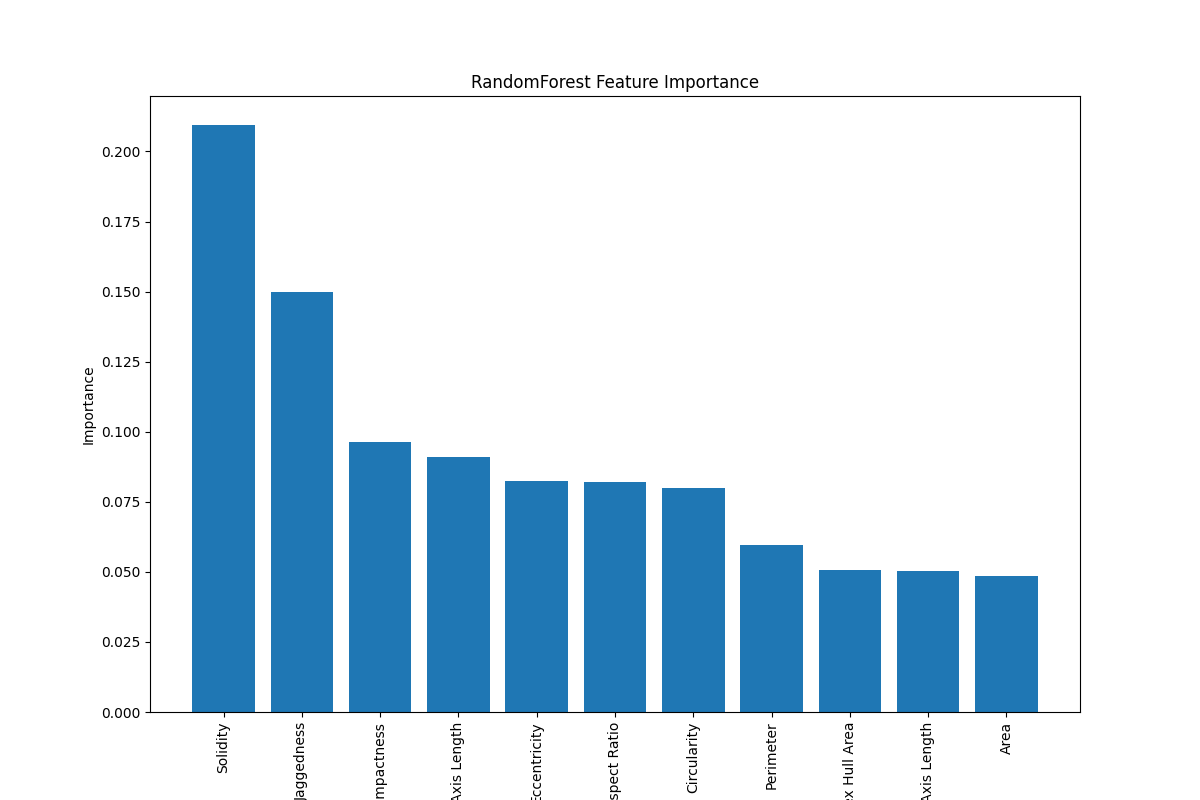
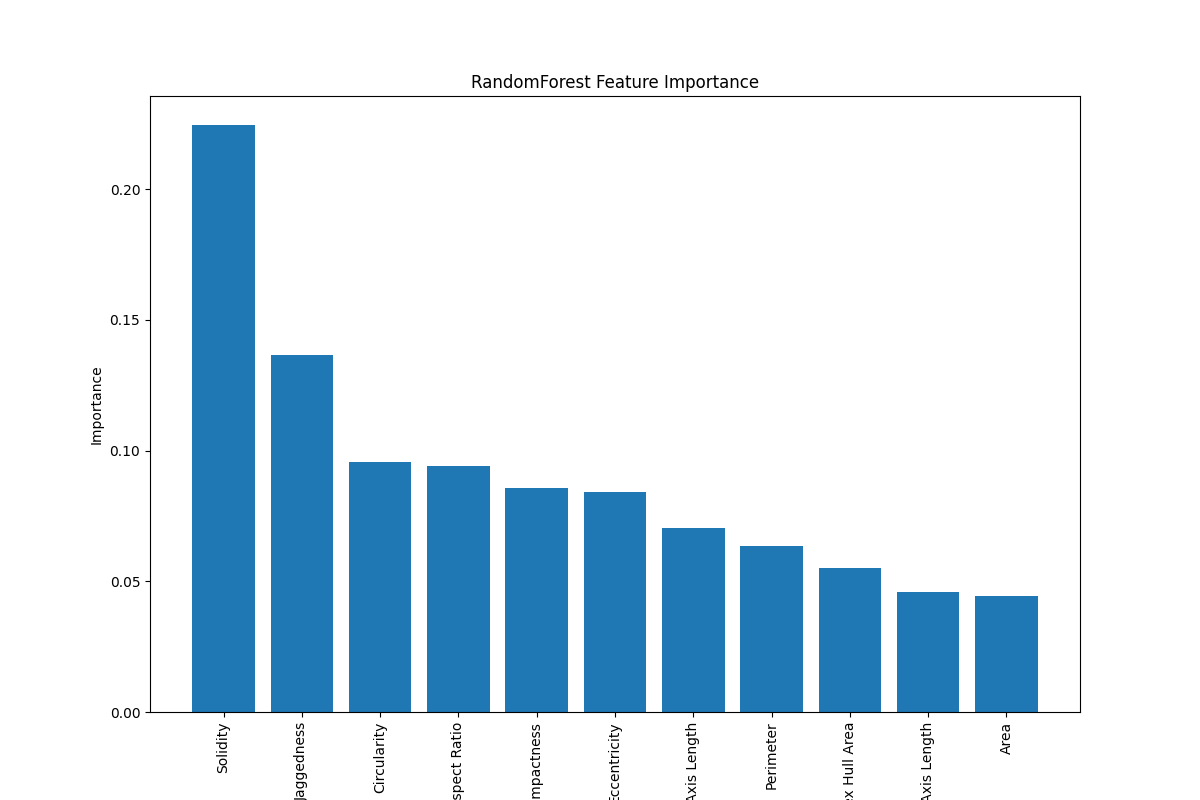
done local interpertation 	new file:   BrEaST-000001_0.png_features_predictions.png 	new file:   BrEaST-000002_0.png_features_predictions.png 	new file:   BrEaST-000003_0.png_features_predictions.png 	new file:   BrEaST-000004_0.png_features_predictions.png 	new file:   BrEaST-000010_0.png_features_

diff --git a/mainstats.py b/mainstats.py
@@ -1,0 +1,387 @@
+#imports
+import os
+import cv2
+import numpy as np
+import json
+import pandas as pd
+from sklearn.model_selection import train_test_split
+from xgboost import XGBClassifier
+from sklearn.ensemble import RandomForestClassifier
+from sklearn.metrics import accuracy_score, classification_report, roc_curve, auc, confusion_matrix, roc_auc_score
+import matplotlib.pyplot as plt
+import seaborn as sns
+import shap
+from sklearn.preprocessing import StandardScaler
+from treeinterpreter import treeinterpreter as ti
+
+
+# Define paths
+masks_path = 'masks'
+meta_path = 'meta'
+
+def extract_features(mask):
+    features = {}
+    
+    # Area
+    area = cv2.countNonZero(mask)
+    features['Area'] = area
+    
+    # Perimeter
+    contours, _ = cv2.findContours(mask, cv2.RETR_EXTERNAL, cv2.CHAIN_APPROX_SIMPLE)
+    perimeter = cv2.arcLength(contours[0], True)
+    features['Perimeter'] = perimeter
+    
+    # Major and Minor Axis Lengths
+    if len(contours[0]) >= 5:
+        ellipse = cv2.fitEllipse(contours[0])
+        (center, axes, orientation) = ellipse
+        major_axis_length = max(axes)
+        minor_axis_length = min(axes)
+    else:
+        # no 5 points to fit an eclipse
+        return None
+    
+    #aviod divide by zeros error and remove instance from data
+    if minor_axis_length == 0:
+        return None
+    
+    features['Major Axis Length'] = major_axis_length
+    features['Minor Axis Length'] = minor_axis_length
+    
+    # Aspect Ratio
+    aspect_ratio = major_axis_length / minor_axis_length
+    features['Aspect Ratio'] = aspect_ratio
+    
+
+    # Circularity
+    if perimeter != 0:
+        circularity = 4 * np.pi * (area / (perimeter ** 2))
+    else:
+        #skip instance
+        return None
+    features['Circularity'] = circularity
+    
+    # Compactness
+    if area != 0:
+        compactness = (perimeter ** 2) / (4 * np.pi * area)
+    else:
+        #skip image to avoid divide by zero
+        return None
+    features['Compactness'] = compactness
+    
+    # Eccentricity
+    eccentricity = major_axis_length / minor_axis_length
+    features['Eccentricity'] = eccentricity
+    
+    # Jaggedness (Boundary Roughness)
+    smoothed_contour = cv2.approxPolyDP(contours[0], epsilon=0.02*perimeter, closed=True)
+    smoothed_perimeter = cv2.arcLength(smoothed_contour, True)
+    if smoothed_perimeter != 0:
+        jaggedness = perimeter / smoothed_perimeter
+    else:
+        #skip image to avoid divide by zero
+        return None
+    features['Jaggedness'] = jaggedness
+    
+    # Convex Hull Area
+    hull = cv2.convexHull(contours[0])
+    hull_area = cv2.contourArea(hull)
+    if hull_area != 0:
+        solidity = area / hull_area
+    else:
+        return None  # Skip this image to avoid divide-by-zero
+    
+    features['Convex Hull Area'] = hull_area
+    features['Solidity'] = solidity
+    
+    return features
+
+def extract_features_from_all_masks(masks_path):
+    features_list = []
+    filenames = []
+    
+    for mask_file in os.listdir(masks_path):
+        if mask_file.endswith('.png'):
+            mask_image = cv2.imread(os.path.join(masks_path, mask_file), cv2.IMREAD_GRAYSCALE)
+            features = extract_features(mask_image)
+            if features is not None:
+                features_list.append(features)
+                filenames.append(mask_file)
+    
+    return features_list, filenames
+
+def load_metadata(meta_path):
+    labels = {}
+    
+    for meta_file in os.listdir(meta_path):
+        if meta_file.endswith('.json'):
+            with open(os.path.join(meta_path, meta_file), 'r') as f:
+                meta_data = json.load(f)
+                labels[meta_file.replace('.json', '.png')] = meta_data.get('Class', 'Unknown')
+    
+    return labels
+
+def create_dataset(features_list, filenames, labels):
+    dataset = []
+    for features, filename in zip(features_list, filenames):
+        label = labels.get(filename, None)
+        if label is not None:
+            features['Label'] = label
+            dataset.append(features)
+    return dataset
+
+# Extract features from all masks
+features_list, filenames = extract_features_from_all_masks(masks_path)
+
+# Load metadata
+labels = load_metadata(meta_path)
+
+# Debug print statements to verify mappings
+print("Features List Length:", len(features_list))
+print("Filenames Length:", len(filenames))
+# Create dataset
+dataset = create_dataset(features_list, filenames, labels)
+
+# Debug print statements to verify the final dataset
+print("Dataset Length:", len(dataset))
+print("\n")
+print("Sample from Dataset:", dataset[:5])  # Print first 5 entries
+
+# Convert to DataFrame for better visualization and manipulation
+df = pd.DataFrame(dataset)
+print("\n")
+print(df.head())
+
+# Dataset statistics
+class_counts = df['Label'].value_counts()
+class_percentages = df['Label'].value_counts(normalize=True) * 100
+class_balance = pd.DataFrame({'Count': class_counts, 'Percentage': class_percentages})
+print("Class balance:\n", class_balance)
+
+plt.figure(figsize=(12, 8))
+sns.countplot(x='Label', data=df)
+plt.title('Class Balance')
+plt.xlabel('Class')
+plt.ylabel('Count')
+for p in plt.gca().patches:
+    plt.gca().annotate(f'{p.get_height()} ({p.get_height()/len(df)*100:.2f}%)', 
+                       (p.get_x() + p.get_width() / 2., p.get_height()), 
+                       ha='center', va='baseline', fontsize=12, color='black', xytext=(0, 5), 
+                       textcoords='offset points')
+plt.savefig('class_balance.png')
+plt.close()
+
+# Encode labels as numerical values
+label_mapping = {'benign': 0, 'malignant': 1}
+df['Label'] = df['Label'].map(label_mapping)
+
+# Prepare data for training
+if 'Label' in df.columns:
+    X = df.drop('Label', axis=1)
+    y = df['Label']
+
+    X_train, X_test, y_train, y_test = train_test_split(X, y, test_size=0.2, random_state=42)
+
+    # Train XGBoost model
+    xgb_model = XGBClassifier()
+    xgb_model.fit(X_train, y_train)
+
+    # Evaluate XGBoost model
+    y_pred_xgb = xgb_model.predict(X_test)
+    print("XGBoost Accuracy:", accuracy_score(y_test, y_pred_xgb))
+    print("XGBoost Classification Report:\n", classification_report(y_test, y_pred_xgb))
+    print("XGBoost AUC Score:", roc_auc_score(y_test, y_pred_xgb))
+
+    # Confusion Matrix for XGBoost
+    cm_xgb = confusion_matrix(y_test, y_pred_xgb)
+    plt.figure(figsize=(6, 6))
+    sns.heatmap(cm_xgb, annot=True, fmt='d', cmap='Blues', xticklabels=['benign', 'malignant'], yticklabels=['benign', 'malignant'])
+    plt.title('XGBoost Confusion Matrix')
+    plt.xlabel('Predicted')
+    plt.ylabel('Actual')
+    plt.savefig('xgb_confusion_matrix.png')
+    plt.close()
+
+    # Feature importance from XGBoost
+    importances_xgb = xgb_model.feature_importances_
+    indices_xgb = np.argsort(importances_xgb)[::-1]
+
+    # Plot feature importance for XGBoost
+    plt.figure(figsize=(12, 8))
+    plt.title("XGBoost Feature Importance")
+    plt.bar(range(X.shape[1]), importances_xgb[indices_xgb], align="center")
+    plt.xticks(range(X.shape[1]), [X.columns[i] for i in indices_xgb], rotation=90)
+    plt.xlabel("Feature")
+    plt.ylabel("Importance")
+    plt.savefig('xgboost_feature_importance.png')
+    plt.close()
+
+    # ROC Curve for XGBoost
+    fpr_xgb, tpr_xgb, _ = roc_curve(y_test, y_pred_xgb)
+    plt.figure()
+    plt.plot(fpr_xgb, tpr_xgb, color='blue', lw=2, label='XGBoost ROC curve (area = %0.2f)' % auc(fpr_xgb, tpr_xgb))
+    plt.plot([0, 1], [0, 1], color='navy', lw=2, linestyle='--')
+    plt.xlim([0.0, 1.0])
+    plt.ylim([0.0, 1.05])
+    plt.xlabel('False Positive Rate')
+    plt.ylabel('True Positive Rate')
+    plt.title('XGBoost ROC Curve')
+    plt.legend(loc="lower right")
+    plt.savefig('xgb_roc_curve.png')
+    plt.close()
+
+    # Train RandomForest model
+    rf_model = RandomForestClassifier()
+    rf_model.fit(X_train, y_train)
+
+    # Evaluate RandomForest model
+    y_pred_rf = rf_model.predict(X_test)
+    print("RandomForest Accuracy:", accuracy_score(y_test, y_pred_rf))
+    print("RandomForest Classification Report:\n", classification_report(y_test, y_pred_rf))
+    print("RandomForest AUC Score:", roc_auc_score(y_test, y_pred_rf))
+
+    # Confusion Matrix for RandomForest
+    cm_rf = confusion_matrix(y_test, y_pred_rf)
+    plt.figure(figsize=(6, 6))
+    sns.heatmap(cm_rf, annot=True, fmt='d', cmap='Blues', xticklabels=['benign', 'malignant'], yticklabels=['benign', 'malignant'])
+    plt.title('RandomForest Confusion Matrix')
+    plt.xlabel('Predicted')
+    plt.ylabel('Actual')
+    plt.savefig('rf_confusion_matrix.png')
+    plt.close()
+
+    # ROC Curve for RandomForest
+    fpr_rf, tpr_rf, _ = roc_curve(y_test, y_pred_rf)
+    plt.figure()
+    plt.plot(fpr_rf, tpr_rf, color='green', lw=2, label='RandomForest ROC curve (area = %0.2f)' % auc(fpr_rf, tpr_rf))
+    plt.plot([0, 1], [0, 1], color='navy', lw=2, linestyle='--')
+    plt.xlim([0, 1])
+    plt.ylim([0, 1.05])
+    plt.xlabel('False Positive Rate')
+    plt.ylabel('True Positive Rate')
+    plt.title('RandomForest ROC Curve')
+    plt.legend(loc="lower right")
+    plt.savefig('rf_roc_curve.png')
+    plt.close()
+
+    # Feature importance from RandomForest
+    importances_rf = rf_model.feature_importances_
+    indices_rf = np.argsort(importances_rf)[::-1]
+
+    # Plot feature importance for RandomForest
+    plt.figure(figsize=(12, 8))
+    plt.title("RandomForest Feature Importance")
+    plt.bar(range(X.shape[1]), importances_rf[indices_rf], align="center")
+    plt.xticks(range(X.shape[1]), [X.columns[i] for i in indices_rf], rotation=90)
+    plt.xlabel("Feature")
+    plt.ylabel("Importance")
+    plt.savefig('randomforest_feature_importance.png')
+    plt.close()
+
+    # Correlation heatmap
+    plt.figure(figsize=(12, 8))
+    sns.heatmap(df.corr(), annot=True, fmt='.2f', cmap='coolwarm')
+    plt.title('Correlation Heatmap')
+    plt.savefig('correlation_heatmap.png')
+    plt.close()
+
+    # Identify misclassified & correctly classified masks
+    misclassified_rf = []
+    misclassified_xgb = []
+    correct_classified_rf = []
+    correct_classified_xgb = []
+
+    for idx, (true_label, rf_pred, xgb_pred) in enumerate(zip(y_test, y_pred_rf, y_pred_xgb)):
+        if rf_pred != true_label:
+            misclassified_rf.append(filenames[idx])
+        else:
+            correct_classified_rf.append(filenames[idx])
+
+        if xgb_pred != true_label:
+            misclassified_xgb.append(filenames[idx])
+        else:
+            correct_classified_xgb.append(filenames[idx])
+
+    def extract_features_for_list(filenames, masks_path, scaler=None):
+        features_list = []
+        for filename in filenames:
+            mask_image = cv2.imread(os.path.join(masks_path, filename), cv2.IMREAD_GRAYSCALE)
+            features = extract_features(mask_image)
+            if features is not None:
+                features_list.append(features)
+        features_df = pd.DataFrame(features_list)
+        if scaler:
+            features_df = pd.DataFrame(scaler.transform(features_df), columns=features_df.columns)
+        return features_df
+
+    def plot_image_features_with_predictions_and_contributions(filename, features, xgb_pred, rf_pred, rf_contributions):
+        # Load the image
+        img = cv2.imread(os.path.join(masks_path, filename))
+        
+        # Create a figure
+        plt.figure(figsize=(16, 8))
+        
+        # Plot the image
+        plt.subplot(1, 3, 1)
+        plt.imshow(cv2.cvtColor(img, cv2.COLOR_BGR2RGB))
+        plt.title(f'Original Image - {filename}')
+        plt.axis('off')
+        
+        # Plot the features
+        plt.subplot(1, 3, 2)
+        features.plot(kind='barh', legend=False)
+        plt.title('Normalized Extracted Features')
+        plt.xlabel('Feature Value')
+        
+        # Plot the contributions for each class
+        plt.subplot(1, 3, 3)
+        rf_contrib_summary_class0 = rf_contributions[:, 0]
+        rf_contrib_summary_class1 = rf_contributions[:, 1]
+        
+        pd.Series(rf_contrib_summary_class0, index=features.index).plot(kind='barh', color='blue', alpha=0.6, label='Class 0')
+        pd.Series(rf_contrib_summary_class1, index=features.index).plot(kind='barh', color='red', alpha=0.6, label='Class 1')
+        
+        plt.title('Random Forest Contributions')
+        plt.xlabel('Contribution Value')
+        plt.legend()
+        
+        # Save the figure
+        plt.tight_layout()
+        plt.savefig(f'{filename}_features_predictions.png')
+        plt.close()
+
+        # Print the model predictions
+        print(f"Predictions for {filename}:")
+        print(f"  XGBoost: {'benign' if xgb_pred == 0 else 'malignant'}")
+        print(f"  RandomForest: {'benign' if rf_pred == 0 else 'malignant'}")
+
+    # Prepare the scaler using the training set features
+    all_filenames = correct_classified_rf + misclassified_rf + correct_classified_xgb + misclassified_xgb
+    train_features = extract_features_for_list(all_filenames, masks_path)
+    scaler = StandardScaler().fit(train_features)
+
+    # Analyze 3 correctly classified and 3 misclassified examples for RandomForest and XGBoost
+    def analyze_examples(classified_list, model, model_name):
+        for i in range(min(3, len(classified_list))):
+            filename = classified_list[i]
+            features = extract_features_for_list([filename], masks_path, scaler)
+            xgb_pred = xgb_model.predict(features)
+            rf_pred = rf_model.predict(features)
+            rf_predictions, rf_bias, rf_contributions = ti.predict(rf_model, features)
+
+            plot_image_features_with_predictions_and_contributions(
+                filename,
+                features.iloc[0],
+                xgb_pred[0],
+                rf_pred[0],
+                rf_contributions[0]
+            )
+
+    analyze_examples(correct_classified_rf, rf_model, "RandomForest Correctly Classified")
+    analyze_examples(misclassified_rf, rf_model, "RandomForest Misclassified")
+    analyze_examples(correct_classified_xgb, xgb_model, "XGBoost Correctly Classified")
+    analyze_examples(misclassified_xgb, xgb_model, "XGBoost Misclassified")
+
+else:
+    print("Error: 'Label' column not found in the DataFrame.")
+

diff --git a/maingroupby.py b/maingroupby.py
@@ -117,7 +117,8 @@ def extract_features_from_dataset(dataset_name, masks_path, meta_path):
                         labels.append(label)
 
     return features_list, filenames, labels
-
+    
+    
 # Extract features and labels from each dataset
 for dataset in datasets:
     features_list, filenames, labels = extract_features_from_dataset(dataset, masks_path, meta_path)
